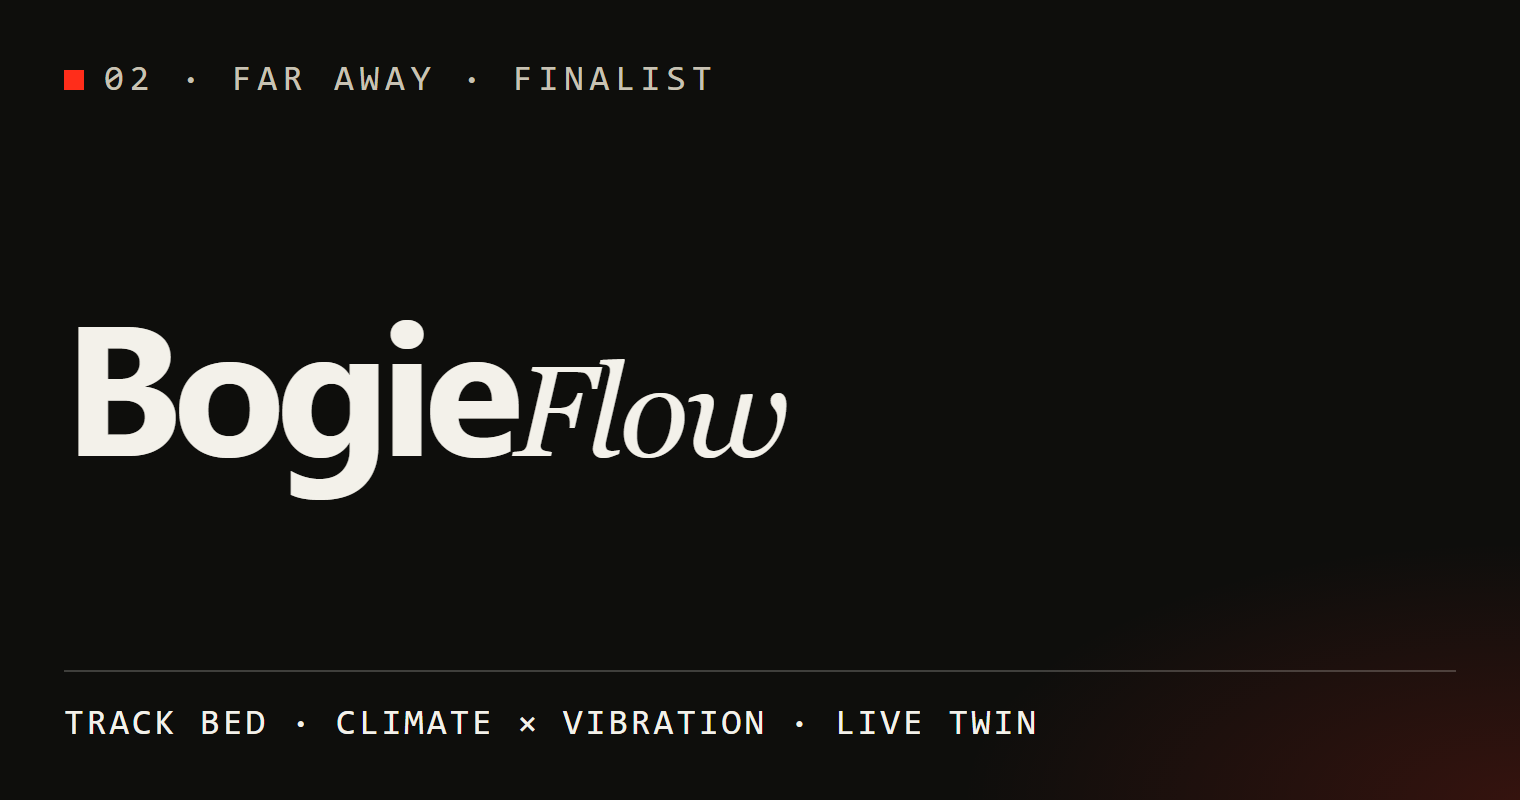
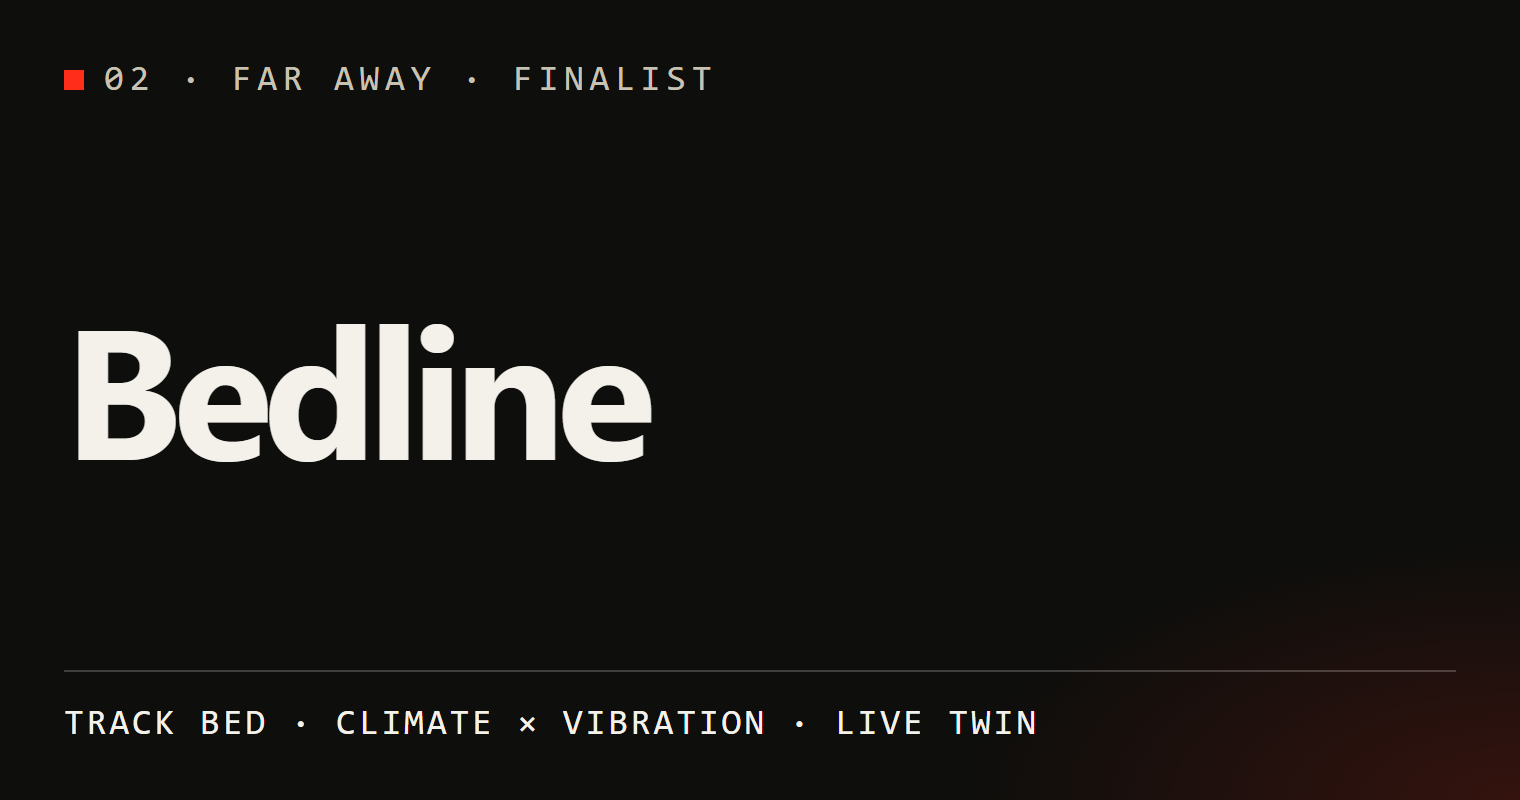
Point the profile at the renamed projects.

Changed region(s): [[0.0618, 0.4062, 0.5257, 0.625]]

diff --git a/README.md b/README.md
@@ -5,7 +5,7 @@
 <p align="center">
   <a href="https://stillvoice.life/"><img alt="Still Voice" src="https://img.shields.io/badge/Still_Voice-500_in_a_week-ff2d1a?style=flat-square" /></a>
   <a href="https://www.ycombinator.singles/"><img alt="YC Singles" src="https://img.shields.io/badge/YC_Singles-1%2C000_in_a_week-1a1814?style=flat-square" /></a>
-  <a href="https://bogieflow.vercel.app"><img alt="BogieFlow" src="https://img.shields.io/badge/BogieFlow-live-1a1814?style=flat-square" /></a>
+  <a href="https://bogieflow.vercel.app"><img alt="Bedline" src="https://img.shields.io/badge/Bedline-live-1a1814?style=flat-square" /></a>
   <a href="tel:+917208201813"><img alt="Phone" src="https://img.shields.io/badge/phone-+91_7208201813-1a1814?style=flat-square" /></a>
 </p>
 
@@ -19,7 +19,7 @@ Hardware on the wrist. A railway twin for the track bed. Two waitlists that fill
       <img src="cards/glove.png" alt="Gesture Glove. Under 20 milliseconds from gesture to speech." />
     </td>
     <td width="50%">
-      <a href="https://bogieflow.vercel.app"><img src="cards/bogie.png" alt="BogieFlow. Far Away 2026 finalist. Railway track-bed digital twin." /></a>
+      <a href="https://github.com/Saylichangn/Bedline"><img src="cards/bogie.png" alt="Bedline. Far Away 2026 finalist. Railway track-bed digital twin." /></a>
     </td>
   </tr>
   <tr>
@@ -28,26 +28,26 @@ Hardware on the wrist. A railway twin for the track bed. Two waitlists that fill
       ESP32, flex sensors, and an IMU. C++ on the board. Gesture to speech in under 20 ms. 12+ hours on a charge.
     </td>
     <td>
-      <b><a href="https://bogieflow.vercel.app">BogieFlow</a></b> · Far Away 2026, finalist<br />
+      <b><a href="https://github.com/Saylichangn/Bedline">Bedline</a></b> · Far Away 2026, finalist<br />
       Live digital twin for railway track-bed maintenance. Climate and vibration. React, FastAPI, WebSocket.<br />
-      <a href="https://github.com/Saylichangn/Bogieflow">Source</a>
+      <a href="https://bogieflow.vercel.app">Live demo</a>
     </td>
   </tr>
   <tr>
     <td width="50%">
-      <a href="https://github.com/Saylichangn/Margi"><img src="cards/margi.png" alt="NovaDrive, also called Margi. Offline-first road-safety HUD and emergency SOS." /></a>
+      <a href="https://github.com/Saylichangn/Goldline"><img src="cards/margi.png" alt="Goldline. Offline-first road-safety HUD and emergency SOS." /></a>
     </td>
     <td width="50%">
-      <a href="https://github.com/Saylichangn/retainiq-churnzero-26"><img src="cards/retain.png" alt="RetainIQ. Cost 68.8 percent lower than a 0.5 cutoff." /></a>
+      <a href="https://github.com/Saylichangn/Costhold"><img src="cards/retain.png" alt="Costhold. Cost 68.8 percent lower than a 0.5 cutoff." /></a>
     </td>
   </tr>
   <tr>
     <td>
-      <b><a href="https://github.com/Saylichangn/Margi">NovaDrive</a></b> · Margi, IIT Madras<br />
+      <b><a href="https://github.com/Saylichangn/Goldline">Goldline</a></b> · IIT Madras<br />
       Offline-first road-safety HUD and emergency SOS for when the network is already gone. React Native, Expo, TypeScript.
     </td>
     <td>
-      <b><a href="https://github.com/Saylichangn/retainiq-churnzero-26">RetainIQ</a></b> · ChurnZero, IIT Kharagpur<br />
+      <b><a href="https://github.com/Saylichangn/Costhold">Costhold</a></b> · ChurnZero, IIT Kharagpur<br />
       Cost-aware churn model and a causal uplift layer. LightGBM and CatBoost. PR-AUC 0.9999. 4 persuadable, 141 sleeping dogs, out of 8,101.
     </td>
   </tr>
@@ -73,11 +73,13 @@ Hardware on the wrist. A railway twin for the track bed. Two waitlists that fill
 
 ## Also built
 
-**[BizCatcher](https://github.com/Saylichangn/BizCatcher)** — serverless geofencing and lead discovery. Next.js, OpenStreetMap, live filters, CSV export.
+**[Leadmark](https://github.com/Saylichangn/Leadmark)** — serverless geofencing and lead discovery. Next.js, OpenStreetMap, live filters, CSV export.
 
-**[MineHealth](https://github.com/Saylichangn/MineHealthftw)** — gamified life OS and study companion. JEE tracking and health logs. React, FastAPI, MongoDB.
+**[Blockwell](https://github.com/Saylichangn/Blockwell)** — gamified life OS and study companion. JEE tracking and health logs. React, FastAPI, MongoDB.
 
-**Desk Assistant** — physical desk companion for UMANG OS. Gesture control, recognition, focus mode, real-time feedback.
+**[Hearthos](https://github.com/Saylichangn/Hearthos)** — desk assistant with gesture, recognition, focus mode, and real-time feedback.
+
+**[Clearhold](https://github.com/Saylichangn/Clearhold)** — USAII 2026 Challenge 1A. A split-pane translator for legal and medical documents.
 
 **Study sites** — [chemistry](https://ncert-chemistry-site.vercel.app/), [f-block](https://fblock-one.vercel.app/), [fluid mechanics](https://fluid-mechanics-web.vercel.app/).
 
@@ -131,7 +133,6 @@ Hardware on the wrist. A railway twin for the track bed. Two waitlists that fill
   <tr>
     <td>ISIR<br /><img alt="Qualified" src="https://img.shields.io/badge/qualified-1a1814?style=flat-square" /></td>
     <td>HackDay 1.0<br /><img alt="Qualified" src="https://img.shields.io/badge/qualified-1a1814?style=flat-square" /></td>
-    <td>Prayas<br /><img alt="Repository selected" src="https://img.shields.io/badge/repo_selected-1a1814?style=flat-square" /></td>
   </tr>
 </table>
 
@@ -139,7 +140,7 @@ Hardware on the wrist. A railway twin for the track bed. Two waitlists that fill
   <summary><b>Paper, letters, and the art wall</b></summary>
   <br />
 
-CS50, Harvard. SystemVerilog, BITS Pilani. Rhapsody Hackathon, IISc Bangalore. ChurnZero. Crisis Lens, USAII 2026 Challenge 1A. Techfest, IIT Bombay, participant. Letter of recommendation, Cornell University. IIT Bombay alumni.
+CS50, Harvard. SystemVerilog, BITS Pilani. Rhapsody Hackathon, IISc Bangalore. ChurnZero. Clearhold, USAII 2026 Challenge 1A.
 
 National awards in art and street play. Art exhibitions at Delhi Public School, 2022 and 2023. National medal, art and poetry, Birla School, Maharashtra. School medals in art. Graphic design courses.
 
